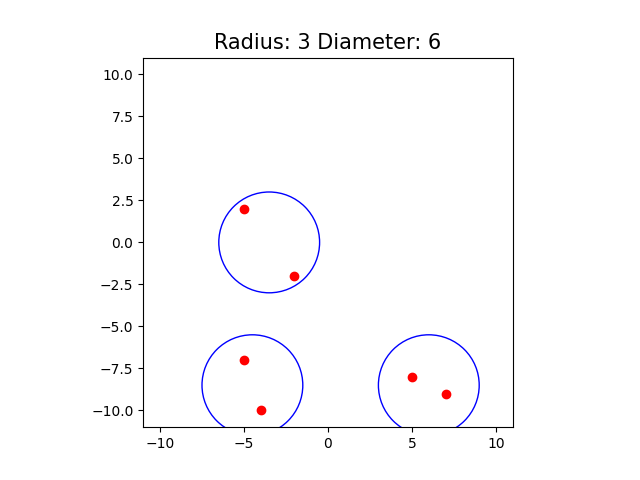
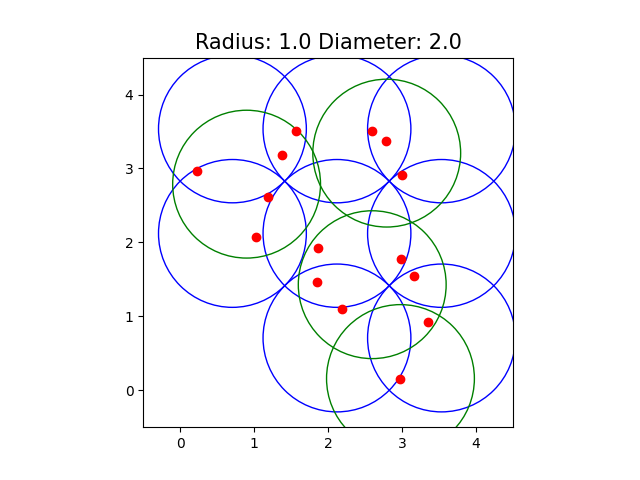
7-apx algo

diff --git a/my_algo.py b/my_algo.py
@@ -4,7 +4,7 @@ import matplotlib.pyplot as plt
 import numpy as np
 import copy
 import random
-
+print(math.sqrt(1/2))
 def distance_between_two_points(p1, p2):
     return math.sqrt( ((p1[0]-p2[0])**2)+((p1[1]-p2[1])**2))
 
@@ -63,22 +63,57 @@ def circles_covering_points(points, radius):
 
     return centers
 
+##########################################################
+def distance(p1, p2):
+    return math.sqrt((p2[0] - p1[0])**2 + (p2[1] - p1[1])**2)
 
+def GHS(P):
+    H = set()
+    Disk_Centers = set()
+
+    for p in P:
+        v = math.floor(p[0] / math.sqrt(2))
+        h = math.floor(p[1] / math.sqrt(2))
+        print(v)
+        print(h)
+        print(H)
+
+        if (v, h) in H:
+            continue
+        elif p[0] >= (math.sqrt(2) * (v + 1.5) - 1) and ((v + 1, h) in H) and (distance(p, (math.sqrt(2) * (v + 1) + math.sqrt(1/2), math.sqrt(2) * h + math.sqrt(1/2))) <= 1):
+            continue
+        elif p[0] <= (math.sqrt(2) * (v - 0.5) + 1) and ((v - 1, h) in H) and (distance(p, (math.sqrt(2) * (v - 1) + math.sqrt(1/2), math.sqrt(2) * h + math.sqrt(1/2))) <= 1):
+            continue
+        elif p[1] >= (math.sqrt(2) * (h + 1.5) - 1) and ((v, h + 1) in H) and (distance(p, (math.sqrt(2) * v + math.sqrt(1/2), math.sqrt(2) * (h + 1) + math.sqrt(1/2))) <= 1):
+            continue
+        elif p[1] <= (math.sqrt(2) * (h - 0.5) + 1) and ((v, h - 1) in H) and (distance(p, (math.sqrt(2) * v + math.sqrt(1/2), math.sqrt(2) * (h - 1) + math.sqrt(1/2))) <= 1):
+            continue
+        else:
+            H.add((v, h))
+            Disk_Centers.add((math.sqrt(2) * v + math.sqrt(1/2), math.sqrt(2) * h + math.sqrt(1/2)))
+
+    return Disk_Centers
+##########################################################
 
 number_of_test = 5
 
 for i in range(number_of_test):
-    number_of_points = 6
+    number_of_points = 15
     points = []
     # points = [[-10, -9], [-1, 6], [4, -10], [9, 8]]
     for j in range(number_of_points):
-        x = random.randint(-10,10)
-        y = random.randint(-10,10)
+        # x = random.randint(-10,10)
+        # y = random.randint(-10,10)
+        x = random.uniform(0.0, 4.0)
+        y = random.uniform(0.0, 4.0)
         points.append([x,y])
-    
-    radius = 3
+    radius = 1.0
 
-    centers = circles_covering_points(points, radius)
+    # centers = GHS(points, radius)
+    centers = GHS(points)#, radius)
+    my_centers = circles_covering_points(points, radius)#, radius)
+
+
     print("centers")
     print(centers)
     print("radius")
@@ -86,8 +121,10 @@ for i in range(number_of_test):
 
     fig, ax = plt.subplots()
     ax.set_title('Radius: {} Diameter: {}'.format(radius,radius * 2), fontsize=15)
-    ax.set_xlim((-11, 11))
-    ax.set_ylim((-11, 11))
+    ax.set_xlim((-0.5, 4.5))
+    ax.set_ylim((-0.5, 4.5))
+    # ax.set_xlim((0, 2))
+    # ax.set_ylim((0, 2))
     for point in points:
         plt.plot(point[0],point[1],'ro')
         
@@ -97,27 +134,32 @@ for i in range(number_of_test):
         # plt.text(center[0],center[1]-0.5,'({}, {})'.format(center[0], center[1]))
         ax.add_artist(circle2)
 
+    for center in my_centers:
+        circle2 = plt.Circle((center[0],center[1]), radius, color='g', fill=False)
+        # plt.plot(center[0],center[1],'r*')
+        # plt.text(center[0],center[1]-0.5,'({}, {})'.format(center[0], center[1]))
+        ax.add_artist(circle2)
     ax.set_aspect('equal')
     # for circle in circles:
     #     ax.add_artist(circle)
     # plt.show()
     plt.savefig('test_cases/my_plot'+str(i)+'.png')
 
-    for point in points:
-        plt.plot(point[0],point[1],'ro')
-        plt.text(point[0],point[1]+0.5,'({}, {})'.format(point[0], point[1]))
-    plt.savefig('test_cases/my_plot'+str(i)+'_1.png')
+    # for point in points:
+    #     plt.plot(point[0],point[1],'ro')
+    #     plt.text(point[0],point[1]+0.5,'({}, {})'.format(point[0], point[1]))
+    # plt.savefig('test_cases/my_plot'+str(i)+'_1.png')
     
-    for center in centers:
-        plt.plot(center[0],center[1],'r*')
-        plt.text(center[0],center[1]-0.5,'({}, {})'.format(center[0], center[1]))
-    plt.savefig('test_cases/my_plot'+str(i)+'_2.png')
+    # for center in centers:
+    #     plt.plot(center[0],center[1],'r*')
+    #     plt.text(center[0],center[1]-0.5,'({}, {})'.format(center[0], center[1]))
+    # plt.savefig('test_cases/my_plot'+str(i)+'_2.png')
     
-    for a in range(len(points)):
-        for b in range(a+1, len(points)):
-            length_between_two_points = distance_between_two_points(points[a], points[b])
-            plt.plot([points[a][0],points[b][0]] ,[points[a][1],points[b][1]], marker = 'o')
-            plt.text((points[a][0]+points[b][0])/2,(points[a][1]+points[b][1])/2+0.5,'{}'.format(round(length_between_two_points,2)))
+    # for a in range(len(points)):
+    #     for b in range(a+1, len(points)):
+    #         length_between_two_points = distance_between_two_points(points[a], points[b])
+    #         plt.plot([points[a][0],points[b][0]] ,[points[a][1],points[b][1]], marker = 'o')
+    #         plt.text((points[a][0]+points[b][0])/2,(points[a][1]+points[b][1])/2+0.5,'{}'.format(round(length_between_two_points,2)))
 
     
-    plt.savefig('test_cases/my_plot'+str(i)+'_3.png')
+    # plt.savefig('test_cases/my_plot'+str(i)+'_3.png')
